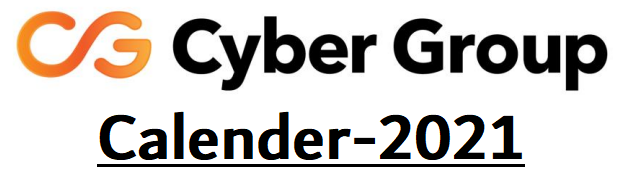
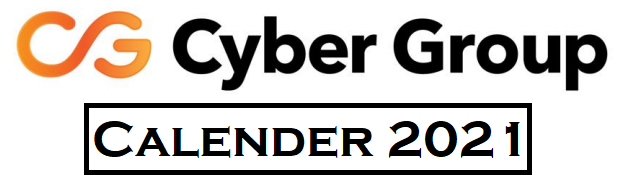
Final Done

Changed region(s): [[0.1212, 0.5285, 0.8485, 0.9326]]

diff --git a/index.html b/index.html
@@ -11,7 +11,7 @@
   
 
     <style>
-      @import url('https://fonts.googleapis.com/css2?family=Bangers&family=Bebas+Neue&family=Rancho&display=swap');
+      @import url('https://fonts.googleapis.com/css2?family=Bangers&family=Bebas+Neue&family=Oswald:wght@300&family=Rancho&display=swap');
       </style>
 
 
@@ -25,7 +25,7 @@
     </div>
 
     <div class="cent">
-      <h3 style="text-align: center; display: inline;width: 50%; font-family: 'Bangers',sans-serif; font-size: 5vw;"> ALWAYS BE ON THE PERFECT DATE</h3>
+      <h3 style="text-align: center; display: inline;width: 50%; font-family: 'Copperplate Gothic Bold'; "> ALWAYS BE ON THE PERFECT DATE</h3>
     </div>
 
 
